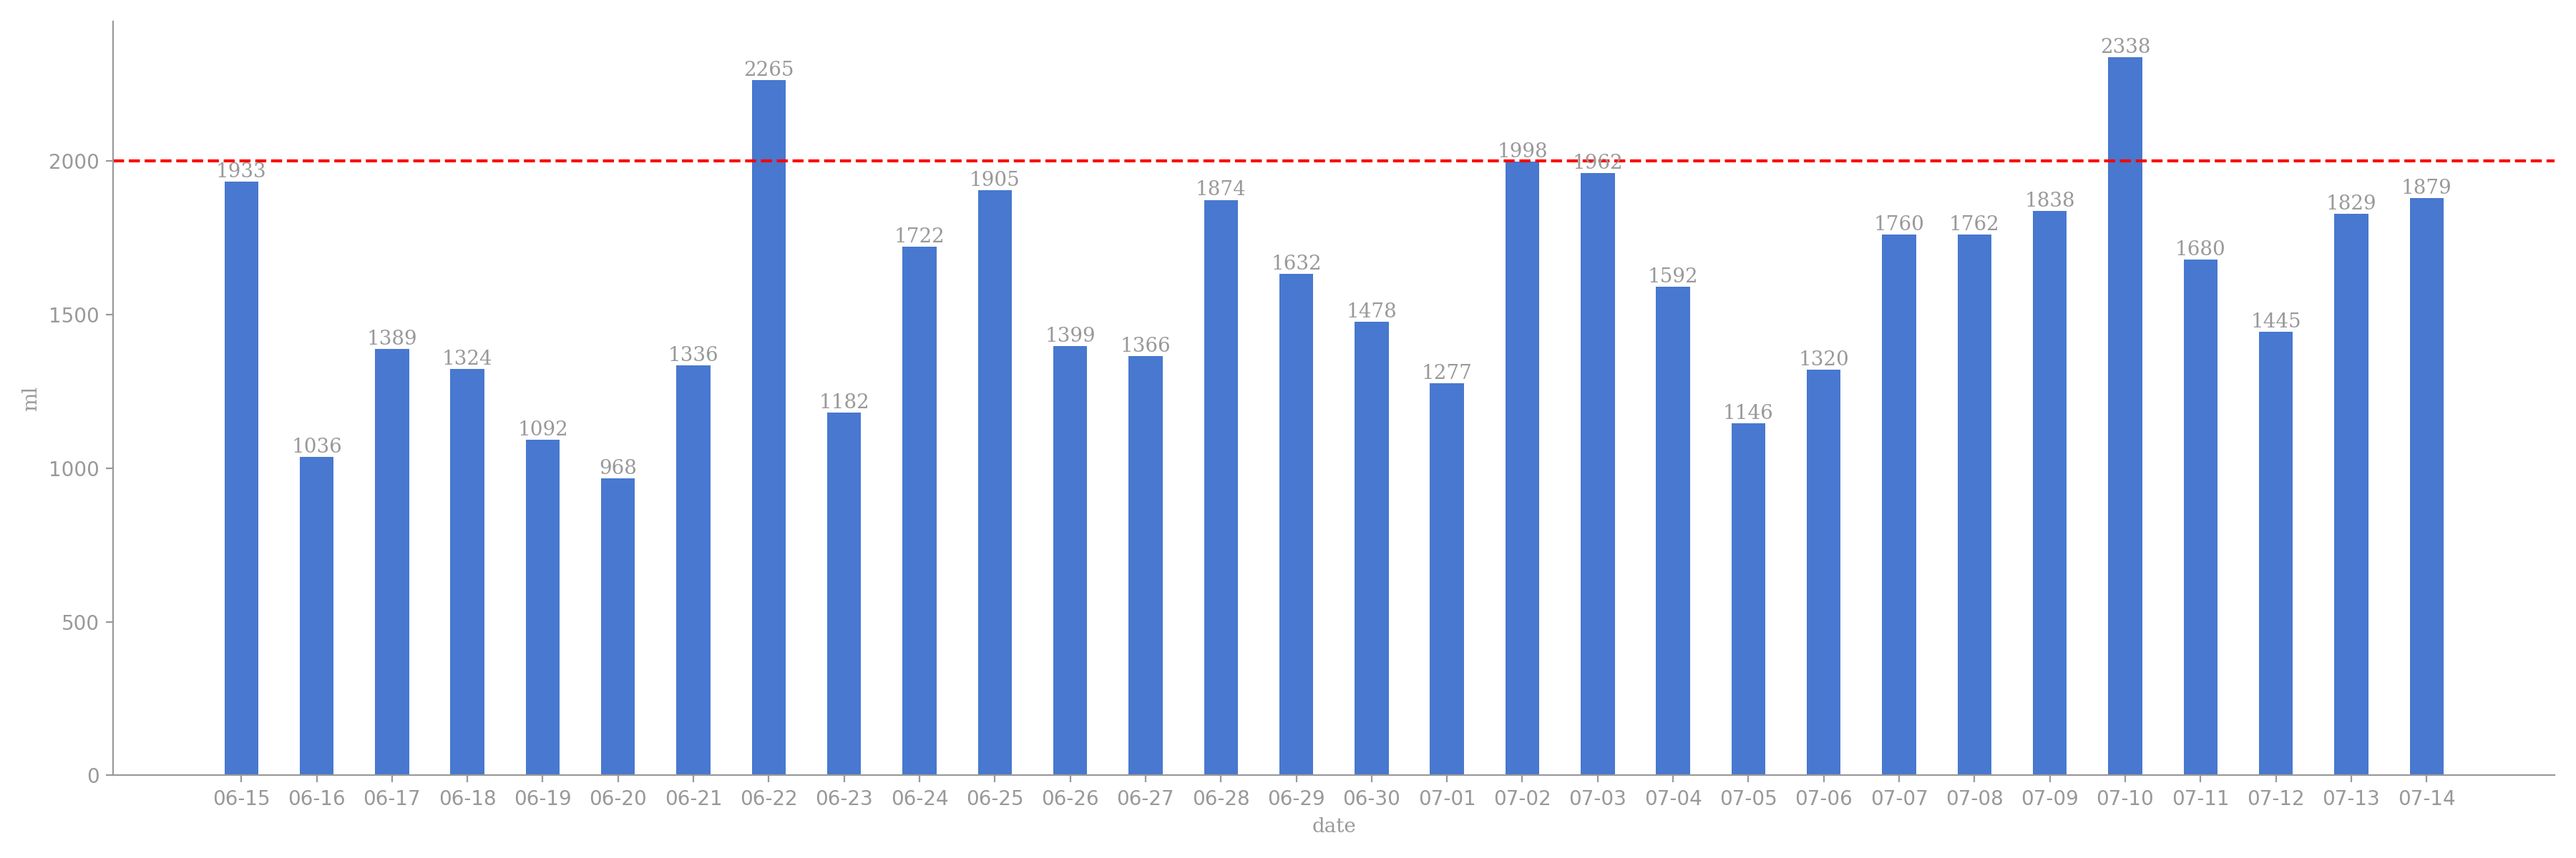
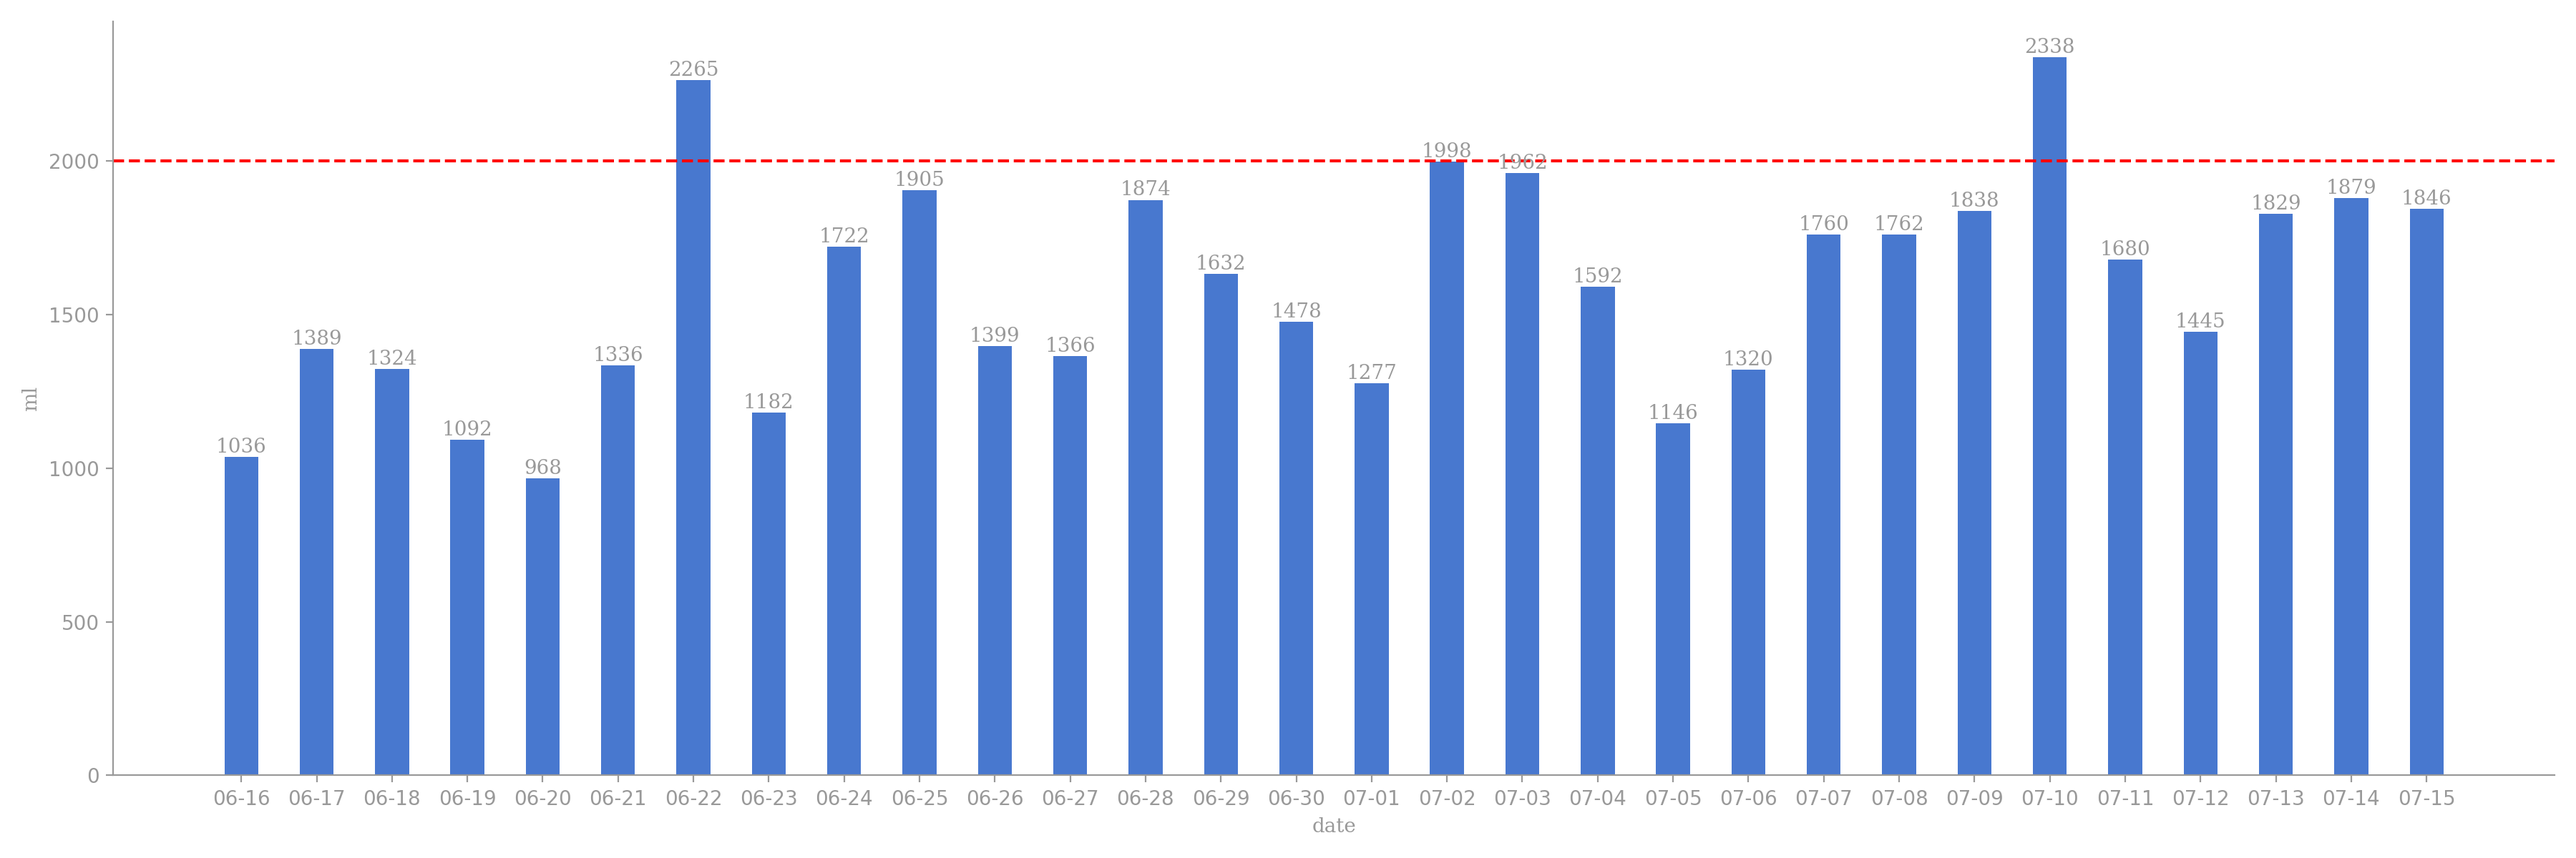
generated readme

Changed region(s): [[0.0622, 0.0617, 0.7156, 0.555], [0.7467, 0.0308, 0.9644, 0.4008]]

diff --git a/README.md b/README.md
@@ -1,17 +1,3 @@
-# 今日饮水数据
-
-<div align=center>
-<img src="today.png" style="zoom: 100%;" />
-
-| 今日总饮水量 | 每小时平均饮水量 |
-| :----: | :----: |
-| 1846 | 123 |
-</div>
-
-| 日期 | 00:06:05 | 00:33:32 | 01:41:54 | 02:26:02 | 03:31:10 | 04:16:45 | 05:30:21 | 06:07:45 | 07:19:26 | 17:05:01 | 18:20:46 | 19:01:45 | 19:36:18 | 20:00:47 | 20:24:36 | 21:35:55 | 22:33:18 | 23:28:00 |
-| :----: | :----: | :----: | :----: | :----: | :----: | :----: | :----: | :----: | :----: | :----: | :----: | :----: | :----: | :----: | :----: | :----: | :----: | :----: |
-| 2024-07-15 | 167 | 89 | 112 | 103 | 100 | 97 | 106 | 85 | 86 | 74 | 200 | 74 | 86 | 97 | 66 | 131 | 89 | 84 |
-
 # 近30日饮水数据
 
 <div align=center>
@@ -19,8 +5,12 @@
 
 | 总饮水量 | 日均饮水量 |
 | :----: | :----: |
-| 47727 | 1590 |
+| 47640 | 1588 |
 </div>
+
+| 日期 | all | 00:06:05 | 00:33:32 | 01:41:54 | 02:26:02 | 03:31:10 | 04:16:45 | 05:30:21 | 06:07:45 | 07:19:26 | 17:05:01 | 18:20:46 | 19:01:45 | 19:36:18 | 20:00:47 | 20:24:36 | 21:35:55 | 22:33:18 | 23:28:00 |
+| :----: | :----: | :----: | :----: | :----: | :----: | :----: | :----: | :----: | :----: | :----: | :----: | :----: | :----: | :----: | :----: | :----: | :----: | :----: | :----: |
+| 2024-07-15 | 1846 | 167 | 89 | 112 | 103 | 100 | 97 | 106 | 85 | 86 | 74 | 200 | 74 | 86 | 97 | 66 | 131 | 89 | 84 |
 
 | 日期 | all | 00:36:56 | 01:47:27 | 03:13:13 | 04:50:33 | 05:20:54 | 06:08:17 | 07:43:38 | 08:33:09 | 08:49:51 | 19:00:26 | 20:26:27 | 20:43:20 | 21:31:24 | 22:57:13 | 23:40:46 |
 | :----: | :----: | :----: | :----: | :----: | :----: | :----: | :----: | :----: | :----: | :----: | :----: | :----: | :----: | :----: | :----: | :----: |
@@ -141,8 +131,4 @@
 | 日期 | all | 00:52:29 | 02:53:28 | 03:43:22 | 05:04:15 | 05:56:55 | 07:20:23 | 07:20:37 | 08:56:28 | 16:53:04 | 18:21:11 | 20:34:38 | 20:52:44 | 21:37:17 | 22:46:26 | 23:15:33 |
 | :----: | :----: | :----: | :----: | :----: | :----: | :----: | :----: | :----: | :----: | :----: | :----: | :----: | :----: | :----: | :----: | :----: |
 | 2024-06-15 | 1933 | 250 | 81 | 81 | 131 | 200 | 87 | 65 | 112 | 127 | 300 | 72 | 63 | 87 | 162 | 115 |
-
-| 日期 | all | 00:40:58 | 02:43:49 | 04:49:44 | 05:08:17 | 06:38:20 | 06:58:16 | 07:31:54 | 18:02:36 | 18:43:34 | 18:53:36 | 20:33:01 | 22:26:35 | 22:42:46 |
-| :----: | :----: | :----: | :----: | :----: | :----: | :----: | :----: | :----: | :----: | :----: | :----: | :----: | :----: | :----: |
-| 2024-06-14 | 1632 | 400 | 77 | 82 | 78 | 230 | 61 | 88 | 84 | 84 | 96 | 83 | 166 | 103 |
 
